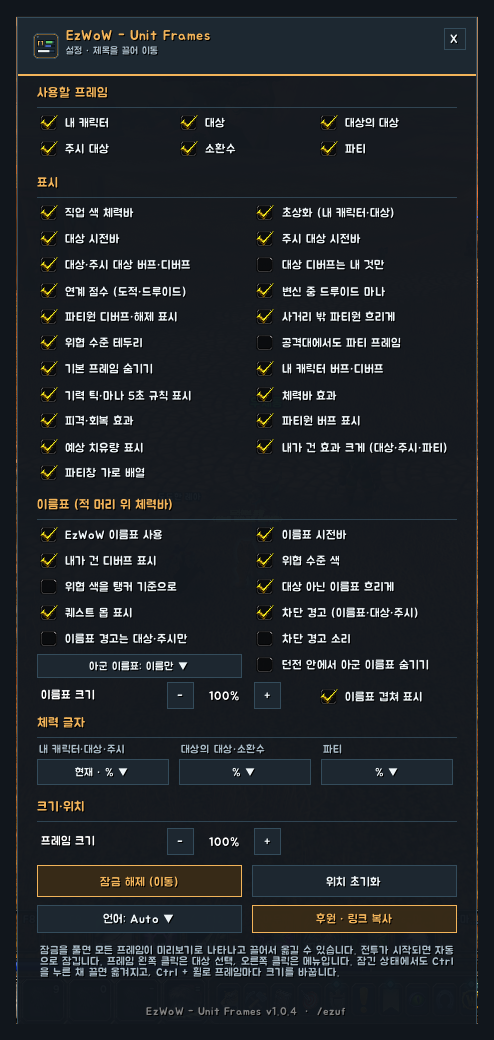
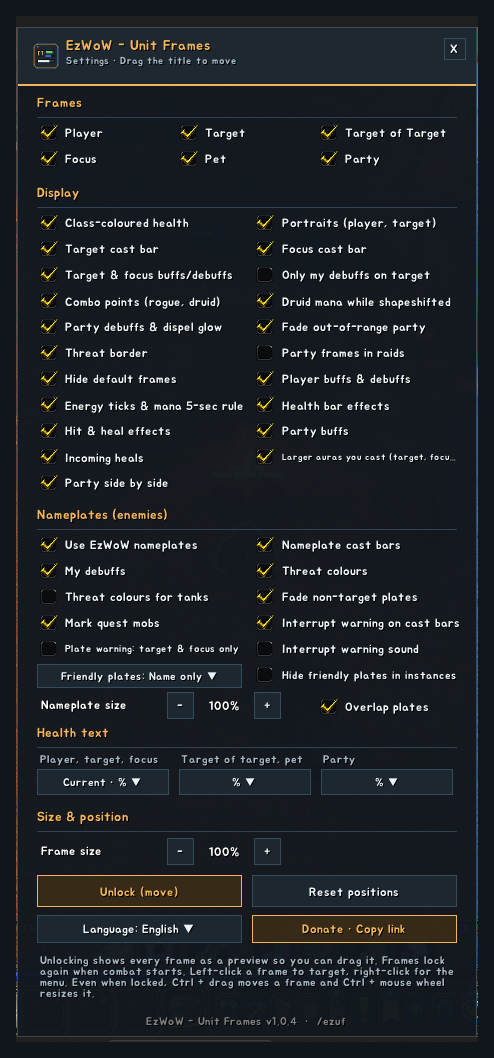
영어 설명용 게임 화면 추가

diff --git a/README.md b/README.md
@@ -64,7 +64,7 @@ Clean EzWoW-style player, target, target of target, focus, pet and party frames,
 
 ![Settings window](https://raw.githubusercontent.com/qqhrqqhr2/EzWoW-UnitFrames/master/docs/images/settings_en.png)
 
-> In-game screenshots (WoW Forever, Korean client). Character and player names and chat text are blurred.
+> In-game screenshots with the addon set to English. The game client is Korean, so game text such as zone, item and spell names stays Korean. Character and player names and chat text are blurred.
 
 ### Frames
 - Player, target, target of target, focus, pet and party (4). Each can be turned off.

diff --git a/docs/curseforge_description.md b/docs/curseforge_description.md
@@ -13,7 +13,7 @@ Clean unit frames for WoW Forever: player, target, target of target, focus, pet 
 
 ![Settings window](https://raw.githubusercontent.com/qqhrqqhr2/EzWoW-UnitFrames/master/docs/images/settings_en.png)
 
-*In-game screenshots (WoW Forever, Korean client). Character and player names and chat text are blurred.*
+*In-game screenshots with the addon set to English. The game client is Korean, so game text such as zone, item and spell names stays Korean. Character and player names and chat text are blurred.*
 
 ## Features
 
